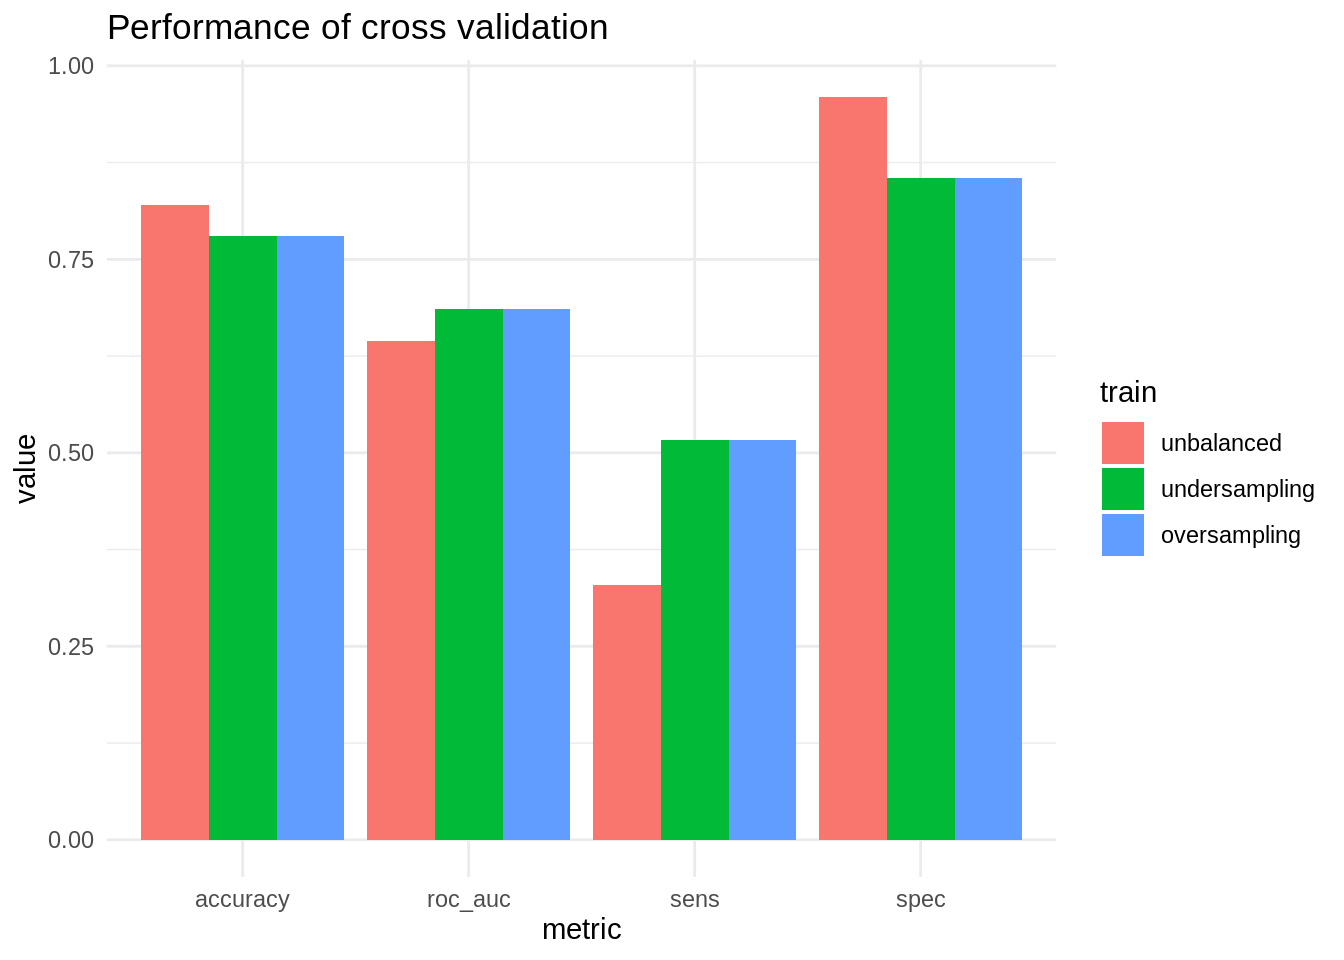
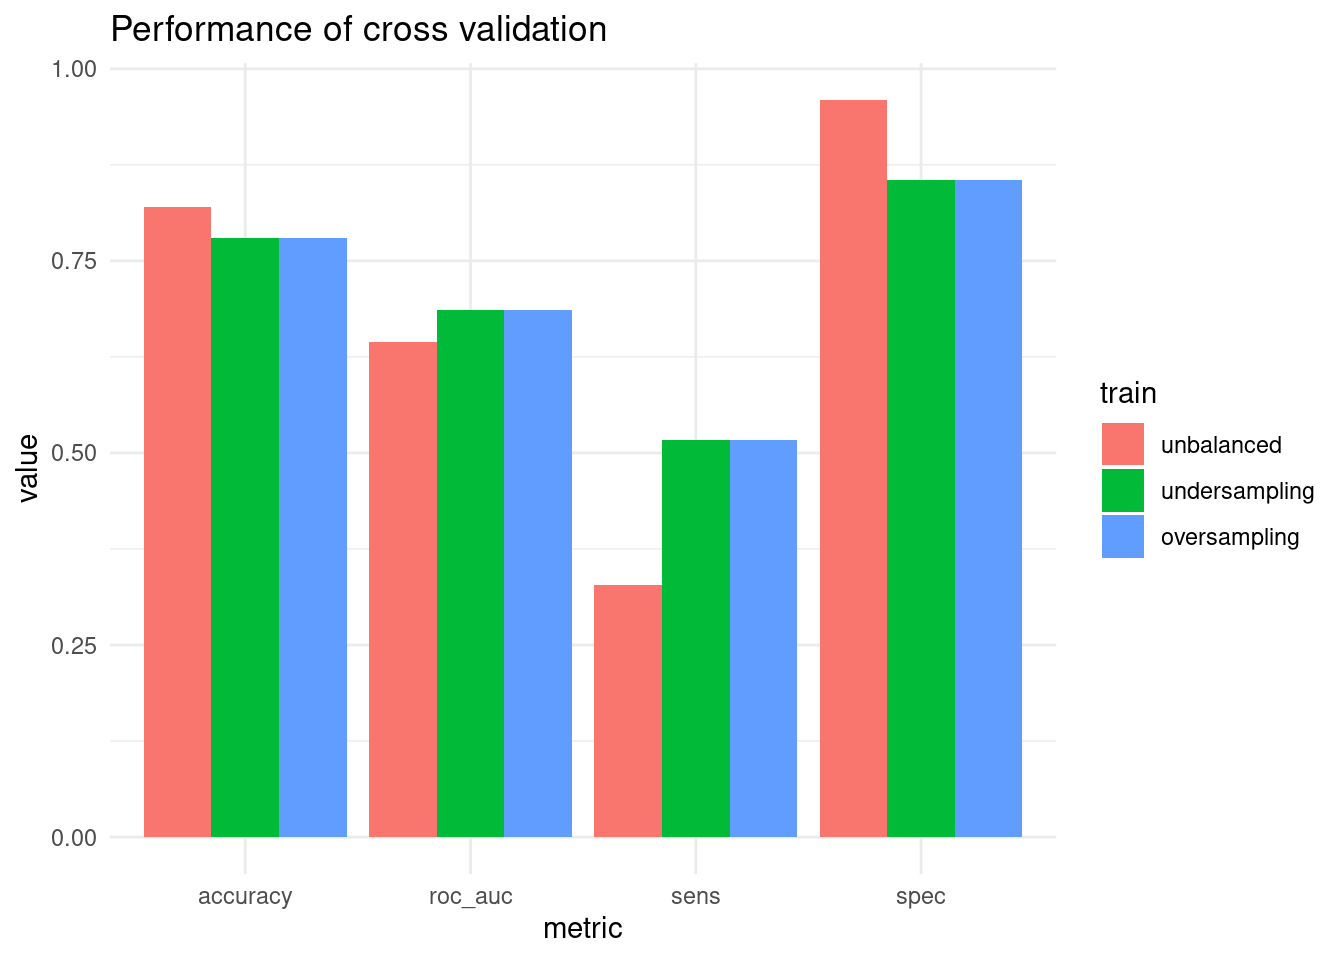
update themis post

diff --git a/content/blog/2022-10-10-undersampling-and-oversampling-with-tidymodels/index.html b/content/blog/2022-10-10-undersampling-and-oversampling-with-tidymodels/index.html
@@ -15,27 +15,29 @@ description: Description for the page
 
 
 
-<p>In this post, I will present how oversampling and undersampling can help us in a classification job on an unbalanced dataset. In unbalanced datasets, the target variable has an uneven distribution, with salient majority and minority classes. Undersampling and oversampling try to improve model performance training the model with a balanced dataset. When using <strong>undersampling</strong>, we train the model with a set removing observations of the majority class. With **oversampling*, we train the model with a dataset with additional artificial elements of the minority class.</p>
+<p>In this post, I will present how oversampling and undersampling can help us in a classification job on an unbalanced dataset. In unbalanced datasets, the target variable has an uneven distribution, with salient majority and minority classes. Undersampling and oversampling try to improve model performance training the model with a balanced dataset. When using <strong>undersampling</strong>, we train the model with a set removing observations of the majority class. With <strong>oversampling</strong>, we train the model with a dataset with additional artificial elements of the minority class.</p>
 <p>I will be using <code>tidymodels</code> for the prediction workflow, <code>BAdatasets</code> to access the dataset and <code>themis</code> to perform undersampling and oversampling.</p>
 <pre class="r"><code>library(tidymodels)
 library(themis)
 library(BAdatasets)</code></pre>
-<p>I will be using the <code>LoanDefaults</code> dataset. It is a dataset of defaults payments in Taiwan, presented in Yeh &amp; Lien (2009).</p>
-<pre class="r"><code>data(&quot;LoanDefaults&quot;)</code></pre>
+<p>I will be using the <code>cc_defaults</code> dataset. It is a dataset of defaults payments in Taiwan, presented in Yeh &amp; Lien (2009).</p>
+<pre class="r"><code>data(&quot;cc_defaults&quot;)</code></pre>
 <p>When plotting the proportion of observations for each case, we observe that the number of negative cases (not defaulted) is much larger than the positive cases (defaulted). Therefore, the set of positive cases is the minority class. This is a frequent situation in contexts like loan defaults or credit card fraud.</p>
-<pre class="r"><code>LoanDefaults %&gt;%
+<pre class="r"><code>cc_defaults |&gt;
   ggplot(aes(factor(default))) + 
-  geom_bar(aes(y = (..count..)/sum(..count..))) +
+  geom_bar(aes(y = after_stat(count)/sum(after_stat(count)))) +
   scale_y_continuous(labels=percent) +
   labs(x = &quot;default&quot;, y = &quot;% of cases&quot;) +
   theme_minimal()</code></pre>
 <p><img src="{{< blogdown/postref >}}index_files/figure-html/unnamed-chunk-3-1.png" width="672" style="display: block; margin: auto;" /></p>
+<div id="workflow-elements" class="section level2">
+<h2>Workflow elements</h2>
 <p>Let’s define the elements of the <code>tidymodels</code> workflow. We start transforming the target <code>default</code> variable into a factor, setting the level of positive cases first.</p>
-<pre class="r"><code>LoanDefaults &lt;- LoanDefaults %&gt;%
-  mutate(default = factor(default, levels = c(&quot;1&quot;, &quot;0&quot;)))</code></pre>
-<p>Then, we need to split the data into train and test. As the dataset is large, I have selected a large <code>prop</code> value. Being the dataset unbalanced, it is important to set <code>strata = default</code>, so that the distribution of target variable in train and test sets will be similar to the original dataset. I have applied a similar logic to split the training set into five <code>folds</code> to apply cross validation.</p>
+<pre class="r"><code>cc_defaults &lt;- cc_defaults |&gt;
+  mutate(default = factor(default, levels = c(&quot;yes&quot;, &quot;no&quot;)))</code></pre>
+<p>Then, we need to split the data into train and test. As the dataset is large, I have selected a large <code>prop</code> value to include in the train set. Being the dataset unbalanced, it is important to set <code>strata = "default"</code>, so that the distribution of target variable in train and test sets will be similar to the original dataset. I have applied a similar logic to split the training set into five <code>folds</code> to apply cross validation.</p>
 <pre class="r"><code>set.seed(1313)
-split &lt;- initial_split(LoanDefaults, prop = 0.9, strata = &quot;default&quot;)
+split &lt;- initial_split(cc_defaults, prop = 0.9, strata = &quot;default&quot;)
 
 folds &lt;- vfold_cv(training(split), v = 5, strata = &quot;default&quot;)</code></pre>
 <p>To evaluate model performance, I have chosen the following metrics:</p>
@@ -46,39 +48,36 @@ folds &lt;- vfold_cv(training(split), v = 5, strata = &quot;default&quot;)</code
 <li>area under the ROC curve <code>roc_auc</code>: a parameter assessing the tradeoff between <code>sens</code> and <code>spec</code>.</li>
 </ul>
 <pre class="r"><code>class_metrics &lt;- metric_set(accuracy, sens, spec, roc_auc)</code></pre>
-<p>In unbalanced datasets, accuracy can be a bad metric of performance. If 90% of observations, we obtain an accuracy of 0.9 simply classifying all observations as negative. In that context, usually sensitivity is a more adequate metric. Additionnally, in jobs like loan defaults or credit card fraud, the cost of a false negative is much higher than of a false positive.</p>
+<p>In unbalanced datasets, accuracy can be a bad metric of performance. If 90% of observations belong to the negative class, we obtain an accuracy of 0.9 simply classifying all observations as negative. In that context, usually sensitivity is a more adequate metric. Additionally, in jobs like loan defaults or credit card fraud, the cost of a false negative is much higher than of a false positive.</p>
 <p>I will use a decision tree <code>dt</code> model, setting standard parameters.</p>
-<pre class="r"><code>dt &lt;- decision_tree(mode = &quot;classification&quot;, cost_complexity = 0.1, min_n = 10) %&gt;%
+<pre class="r"><code>dt &lt;- decision_tree(mode = &quot;classification&quot;, cost_complexity = 0.1, min_n = 10) |&gt;
   set_engine(&quot;rpart&quot;)</code></pre>
 <p>The preprocessing recipe has the following steps:</p>
 <ul>
-<li>variables <code>ID</code> and <code>PAY0</code> to <code>PAY6</code> are removed. Before that, I am replacing <code>PAY_0</code> with payment_status.</li>
-<li>variables <code>payment_status</code>, <code>MARRIAGE</code> and <code>EDUCATION</code> are transformed so that abormal values are set to <code>NA</code>.</li>
+<li>variables <code>id</code> and <code>pay_sep</code> to <code>pay_apr</code> are removed. Before that, I am replacing <code>pay_sep</code> with payment_status.</li>
+<li>variables <code>payment_status</code>, <code>marriage</code> and <code>education</code> are transformed so that abnormal values are set to <code>NA</code>.</li>
 <li><code>NA</code> values of predictors are imputed usign <em>k</em> nearest neighbors.</li>
-<li><code>SEX</code>, <code>MARRIAGE</code> and <code>EDUCATION</code> are transformed into factors.</li>
 </ul>
-<pre class="r"><code>rec_base &lt;- training(split) %&gt;%
-  recipe(default ~ .) %&gt;%
-  step_rm(ID) %&gt;%
-  step_mutate(payment_status = ifelse(PAY_0 &lt; 1, 0, PAY_0)) %&gt;%
-  step_rm(PAY_0:PAY_6) %&gt;%
-  step_mutate(MARRIAGE = ifelse(!MARRIAGE %in% 1:3, NA, MARRIAGE)) %&gt;%
-  step_mutate(EDUCATION = ifelse(!EDUCATION %in% 1:4, NA, EDUCATION)) %&gt;%
-  step_impute_knn(all_predictors(), neighbors = 3) %&gt;%
-  step_num2factor(SEX, levels = c(&quot;male&quot;, &quot;female&quot;)) %&gt;%
-  step_num2factor(MARRIAGE, levels = c(&quot;marriage&quot;, &quot;single&quot;, &quot;others&quot;)) %&gt;% 
-  step_num2factor(EDUCATION, levels = c(&quot;graduate&quot;, &quot;university&quot;, &quot;high_school&quot;, &quot;others&quot;))</code></pre>
+<pre class="r"><code>rec_base &lt;- training(split) |&gt;
+  recipe(default ~ .) |&gt;
+  step_rm(id) |&gt;
+  step_mutate(payment_status = ifelse(pay_sep &lt; 1, 0, pay_sep)) |&gt;
+  step_rm(pay_sep:pay_apr) |&gt;
+  step_mutate(marriage = ifelse(!marriage %in% 1:3, NA, marriage)) |&gt;
+  step_mutate(education = ifelse(!education %in% 1:4, NA, education)) |&gt;
+  step_impute_knn(impute_with = all_predictors(), neighbors = 5)</code></pre>
 <p>The steps to perform undersampling and oversampling are provided by <code>themis</code> package. Here I am using the following methods:</p>
 <ul>
 <li><code>step_downsample</code> performs random majority under-sampling with replacement.</li>
 <li><code>step_upsample</code> performs random minority over-sampling with replacement.</li>
 </ul>
 <p>These steps are added to the <code>rec_base</code> recipe to obtain new recipes <code>rec_us</code> and <code>rec_os</code> for under and oversampling, respectively.</p>
-<pre class="r"><code>rec_us &lt;- rec_base %&gt;%
+<pre class="r"><code>rec_us &lt;- rec_base |&gt;
   step_downsample(default, under_ratio = 1)
 
-rec_os &lt;- rec_base %&gt;%
+rec_os &lt;- rec_base |&gt;
   step_upsample(default, over_ratio = 1)</code></pre>
+</div>
 <div id="testing-under--and-oversampling-with-cross-validation" class="section level2">
 <h2>Testing under- and oversampling with cross validation</h2>
 <p>Now we are ready to test each of the three models with cross validation. ´cv_unb<code>,</code>cv_us<code>and</code>cv_os` train the model with the original dataset, undersampling and oversampling respectively.</p>
@@ -97,16 +96,16 @@ cv_os &lt;- fit_resamples(object = dt,
                         resamples = folds,
                         metrics = class_metrics)</code></pre>
 <p>Now we can extract the metrics for each of the cross-validations. We can stack them all in a single data frame <code>m</code>.</p>
-<pre class="r"><code>m_unb &lt;- collect_metrics(cv_unb) %&gt;%
+<pre class="r"><code>m_unb &lt;- collect_metrics(cv_unb) |&gt;
   mutate(train = &quot;unbalanced&quot;)
 
-m_us &lt;- collect_metrics(cv_us) %&gt;%
+m_us &lt;- collect_metrics(cv_us) |&gt;
   mutate(train = &quot;undersampling&quot;)
 
-m_os &lt;- collect_metrics(cv_os) %&gt;%
+m_os &lt;- collect_metrics(cv_os) |&gt;
   mutate(train = &quot;oversampling&quot;)
 
-m &lt;- bind_rows(m_unb, m_us, m_os) %&gt;%
+m &lt;- bind_rows(m_unb, m_us, m_os) |&gt;
   mutate(train = factor(train, levels = c(&quot;unbalanced&quot;, &quot;undersampling&quot;, &quot;oversampling&quot;)))</code></pre>
 <p>Let’s see the results:</p>
 <pre class="r"><code>ggplot(m, aes(.metric, mean, fill = train)) +
@@ -114,34 +113,34 @@ m &lt;- bind_rows(m_unb, m_us, m_os) %&gt;%
   theme_minimal() +
   labs(title = &quot;Performance of cross validation&quot;, x = &quot;metric&quot;, y = &quot;value&quot;)</code></pre>
 <p><img src="{{< blogdown/postref >}}index_files/figure-html/unnamed-chunk-12-1.png" width="672" style="display: block; margin: auto;" /></p>
-<p>In this case, oversampling and undersampling obtain similar results. Both allow improving sensitivity significantly (although the obtained value is quite poor), paying the price of worsening specificity. Global parameters like accuracy and AUC are not signficantly affected.</p>
+<p>In this case, oversampling and undersampling obtain the same results. Both allow improving sensitivity significantly (although the obtained value is quite poor), paying the price of slightly worsening specificity. Global parameters like accuracy and AUC are not significantly affected.</p>
 </div>
 <div id="evaluating-the-model-in-the-test-set" class="section level2">
 <h2>Evaluating the model in the test set</h2>
-<p>Now I will fit the model on the train set and examine its performance in the test set. In <code>class_metrics2</code> I am excluding <code>roc_auc</code> because I will obtain the class predicted only.</p>
+<p>Now I will fit the model with the whole train set and examine its performance in the test set. In <code>class_metrics2</code> I am excluding <code>roc_auc</code> because I will obtain the class predicted only.</p>
 <pre class="r"><code>class_metrics2 &lt;- metric_set(accuracy, sens, spec)</code></pre>
 <p>Objects <code>unb_model</code>, <code>us_model</code> and <code>os_model</code> contain the model trained in the original, undersampled and oversampled recipes respectively.</p>
-<pre class="r"><code>unb_model &lt;- workflow() %&gt;%
-  add_recipe(rec_base) %&gt;%
-  add_model(dt) %&gt;%
+<pre class="r"><code>unb_model &lt;- workflow() |&gt;
+  add_recipe(rec_base) |&gt;
+  add_model(dt) |&gt;
   fit(training(split))
 
-us_model &lt;- workflow() %&gt;%
-  add_recipe(rec_us) %&gt;%
-  add_model(dt) %&gt;%
+us_model &lt;- workflow() |&gt;
+  add_recipe(rec_us) |&gt;
+  add_model(dt) |&gt;
   fit(training(split))
 
-os_model &lt;- workflow() %&gt;%
-  add_recipe(rec_os) %&gt;%
-  add_model(dt) %&gt;%
+os_model &lt;- workflow() |&gt;
+  add_recipe(rec_os) |&gt;
+  add_model(dt) |&gt;
   fit(training(split))</code></pre>
 <p>Next, I am storing in <code>df_test</code> the results of evaluating each of the models in the test set. Note that we evaluate the model in the original dataset. Under- and oversampling are only performed to train the model. The datasets where the model is evaluated are not modified.</p>
-<pre class="r"><code>m_test &lt;- lapply(list(unb_model, us_model, os_model), function(x) x %&gt;%
-         predict(testing(split)) %&gt;%
-         bind_cols(testing(split)) %&gt;%
+<pre class="r"><code>m_test &lt;- lapply(list(unb_model, us_model, os_model), function(x) x |&gt;
+         predict(testing(split)) |&gt;
+         bind_cols(testing(split)) |&gt;
          class_metrics2(truth = default, estimate = .pred_class))
-df_test &lt;- bind_rows(m_test) %&gt;%
-  mutate(train = rep(c(&quot;unbalanced&quot;, &quot;undersampling&quot;, &quot;oversampling&quot;), each = 3)) %&gt;%
+df_test &lt;- bind_rows(m_test) |&gt;
+  mutate(train = rep(c(&quot;unbalanced&quot;, &quot;undersampling&quot;, &quot;oversampling&quot;), each = 3)) |&gt;
   mutate(train = factor(train, levels = c(&quot;unbalanced&quot;, &quot;undersampling&quot;, &quot;oversampling&quot;)))</code></pre>
 <p>Here are the results of the evaluation. They are quite similar to the obtained with cross validation.</p>
 <pre class="r"><code>ggplot(df_test, aes(.metric, .estimate, fill = train)) +
@@ -149,7 +148,7 @@ df_test &lt;- bind_rows(m_test) %&gt;%
   theme_minimal() +
   labs(title = &quot;Performance of test set&quot;, x = &quot;metric&quot;, y = &quot;value&quot;)</code></pre>
 <p><img src="{{< blogdown/postref >}}index_files/figure-html/unnamed-chunk-16-1.png" width="672" style="display: block; margin: auto;" /></p>
-<p>Under- and oversampling can be useful techniques to improve the ratio of true evaluations of the minority class in unbalanced datasets. So these techniques tend to increase sensitivity at the price of worse values of specificity. This can be a good compromise in classification jobs where the cost of a false negative is much higher than of a false positive.</p>
+<p>Under- and oversampling can be useful techniques to improve the ratio of true evaluations of the minority class in unbalanced datasets. So these techniques tend to increase sensitivity at the price of worse values of specificity. This can be a good compromise in classification jobs where the cost of a false positive is much higher than of a false negative.</p>
 </div>
 <div id="references" class="section level2">
 <h2>References</h2>
@@ -161,13 +160,13 @@ df_test &lt;- bind_rows(m_test) %&gt;%
 </div>
 <div id="session-info" class="section level2">
 <h2>Session info</h2>
-<pre><code>## R version 4.2.1 (2022-06-23)
-## Platform: x86_64-pc-linux-gnu (64-bit)
-## Running under: Linux Mint 19.2
+<pre><code>## R version 4.4.2 (2024-10-31)
+## Platform: x86_64-pc-linux-gnu
+## Running under: Linux Mint 21.1
 ## 
 ## Matrix products: default
-## BLAS:   /usr/lib/x86_64-linux-gnu/openblas/libblas.so.3
-## LAPACK: /usr/lib/x86_64-linux-gnu/libopenblasp-r0.2.20.so
+## BLAS:   /usr/lib/x86_64-linux-gnu/blas/libblas.so.3.10.0 
+## LAPACK: /usr/lib/x86_64-linux-gnu/lapack/liblapack.so.3.10.0
 ## 
 ## locale:
 ##  [1] LC_CTYPE=es_ES.UTF-8       LC_NUMERIC=C              
@@ -177,38 +176,44 @@ df_test &lt;- bind_rows(m_test) %&gt;%
 ##  [9] LC_ADDRESS=C               LC_TELEPHONE=C            
 ## [11] LC_MEASUREMENT=es_ES.UTF-8 LC_IDENTIFICATION=C       
 ## 
+## time zone: Europe/Madrid
+## tzcode source: system (glibc)
+## 
 ## attached base packages:
 ## [1] stats     graphics  grDevices utils     datasets  methods   base     
 ## 
 ## other attached packages:
-##  [1] rpart_4.1.16       BAdatasets_0.1.0   themis_0.2.1       yardstick_0.0.9   
-##  [5] workflowsets_0.2.1 workflows_0.2.6    tune_0.2.0         tidyr_1.2.0       
-##  [9] tibble_3.1.6       rsample_0.1.1      recipes_0.2.0      purrr_0.3.4       
-## [13] parsnip_0.2.1      modeldata_0.1.1    infer_1.0.0        ggplot2_3.3.5     
-## [17] dplyr_1.0.9        dials_0.1.1        scales_1.2.0       broom_0.8.0       
-## [21] tidymodels_0.2.0  
+##  [1] rpart_4.1.23       BAdatasets_0.2.0   themis_1.0.2       yardstick_1.3.1   
+##  [5] workflowsets_1.1.0 workflows_1.1.4    tune_1.2.1         tidyr_1.3.1       
+##  [9] tibble_3.2.1       rsample_1.2.1      recipes_1.0.10     purrr_1.0.2       
+## [13] parsnip_1.2.1      modeldata_1.3.0    infer_1.0.7        ggplot2_3.5.1     
+## [17] dplyr_1.1.4        dials_1.2.1        scales_1.3.0       broom_1.0.5       
+## [21] tidymodels_1.2.0  
 ## 
 ## loaded via a namespace (and not attached):
-##  [1] lubridate_1.8.0    doParallel_1.0.17  DiceDesign_1.9     tools_4.2.1       
-##  [5] backports_1.4.1    bslib_0.3.1        utf8_1.2.2         R6_2.5.1          
-##  [9] DBI_1.1.2          colorspace_2.0-3   nnet_7.3-17        withr_2.5.0       
-## [13] tidyselect_1.1.2   parallelMap_1.5.1  compiler_4.2.1     cli_3.3.0         
-## [17] labeling_0.4.2     bookdown_0.26      sass_0.4.1         checkmate_2.1.0   
-## [21] stringr_1.4.0      digest_0.6.29      rmarkdown_2.14     unbalanced_2.0    
-## [25] pkgconfig_2.0.3    htmltools_0.5.2    parallelly_1.31.1  lhs_1.1.5         
-## [29] highr_0.9          fastmap_1.1.0      rlang_1.0.2        rstudioapi_0.13   
-## [33] BBmisc_1.12        FNN_1.1.3          farver_2.1.0       jquerylib_0.1.4   
-## [37] generics_0.1.2     jsonlite_1.8.0     magrittr_2.0.3     ROSE_0.0-4        
-## [41] Matrix_1.5-1       Rcpp_1.0.8.3       munsell_0.5.0      fansi_1.0.3       
-## [45] GPfit_1.0-8        lifecycle_1.0.1    furrr_0.3.0        stringi_1.7.6     
-## [49] pROC_1.18.0        yaml_2.3.5         MASS_7.3-58        plyr_1.8.7        
-## [53] grid_4.2.1         parallel_4.2.1     listenv_0.8.0      crayon_1.5.1      
-## [57] lattice_0.20-45    splines_4.2.1      mlr_2.19.0         knitr_1.39        
-## [61] pillar_1.7.0       future.apply_1.9.0 codetools_0.2-18   fastmatch_1.1-3   
-## [65] glue_1.6.2         evaluate_0.15      ParamHelpers_1.14  blogdown_1.9      
-## [69] data.table_1.14.2  vctrs_0.4.1        foreach_1.5.2      RANN_2.6.1        
-## [73] gtable_0.3.0       future_1.25.0      assertthat_0.2.1   xfun_0.30         
-## [77] gower_1.0.0        prodlim_2019.11.13 class_7.3-20       survival_3.4-0    
-## [81] timeDate_3043.102  iterators_1.0.14   hardhat_0.2.0      lava_1.6.10       
-## [85] globals_0.14.0     ellipsis_0.3.2     ipred_0.9-12</code></pre>
+##  [1] tidyselect_1.2.1    timeDate_4032.109   farver_2.1.1       
+##  [4] fastmap_1.1.1       blogdown_1.19       digest_0.6.35      
+##  [7] timechange_0.3.0    lifecycle_1.0.4     ellipsis_0.3.2     
+## [10] survival_3.8-3      magrittr_2.0.3      compiler_4.4.2     
+## [13] rlang_1.1.3         sass_0.4.9          tools_4.4.2        
+## [16] utf8_1.2.4          yaml_2.3.8          data.table_1.15.4  
+## [19] knitr_1.46          labeling_0.4.3      DiceDesign_1.10    
+## [22] withr_3.0.0         nnet_7.3-20         grid_4.4.2         
+## [25] fansi_1.0.6         colorspace_2.1-0    future_1.33.2      
+## [28] globals_0.16.3      iterators_1.0.14    MASS_7.3-64        
+## [31] cli_3.6.2           rmarkdown_2.26      generics_0.1.3     
+## [34] rstudioapi_0.16.0   future.apply_1.11.2 cachem_1.0.8       
+## [37] splines_4.4.2       parallel_4.4.2      vctrs_0.6.5        
+## [40] hardhat_1.3.1       Matrix_1.7-1        jsonlite_1.8.8     
+## [43] bookdown_0.39       listenv_0.9.1       foreach_1.5.2      
+## [46] gower_1.0.1         jquerylib_0.1.4     glue_1.7.0         
+## [49] parallelly_1.37.1   codetools_0.2-19    lubridate_1.9.3    
+## [52] gtable_0.3.5        munsell_0.5.1       GPfit_1.0-8        
+## [55] ROSE_0.0-4          pillar_1.9.0        furrr_0.3.1        
+## [58] htmltools_0.5.8.1   ipred_0.9-14        lava_1.8.0         
+## [61] R6_2.5.1            lhs_1.2.0           evaluate_0.23      
+## [64] lattice_0.22-5      highr_0.10          backports_1.4.1    
+## [67] bslib_0.7.0         class_7.3-23        Rcpp_1.0.12        
+## [70] prodlim_2023.08.28  xfun_0.43           pkgconfig_2.0.3</code></pre>
+<p>Modified for small typos and dataset update on 2025-01-13.</p>
 </div>
